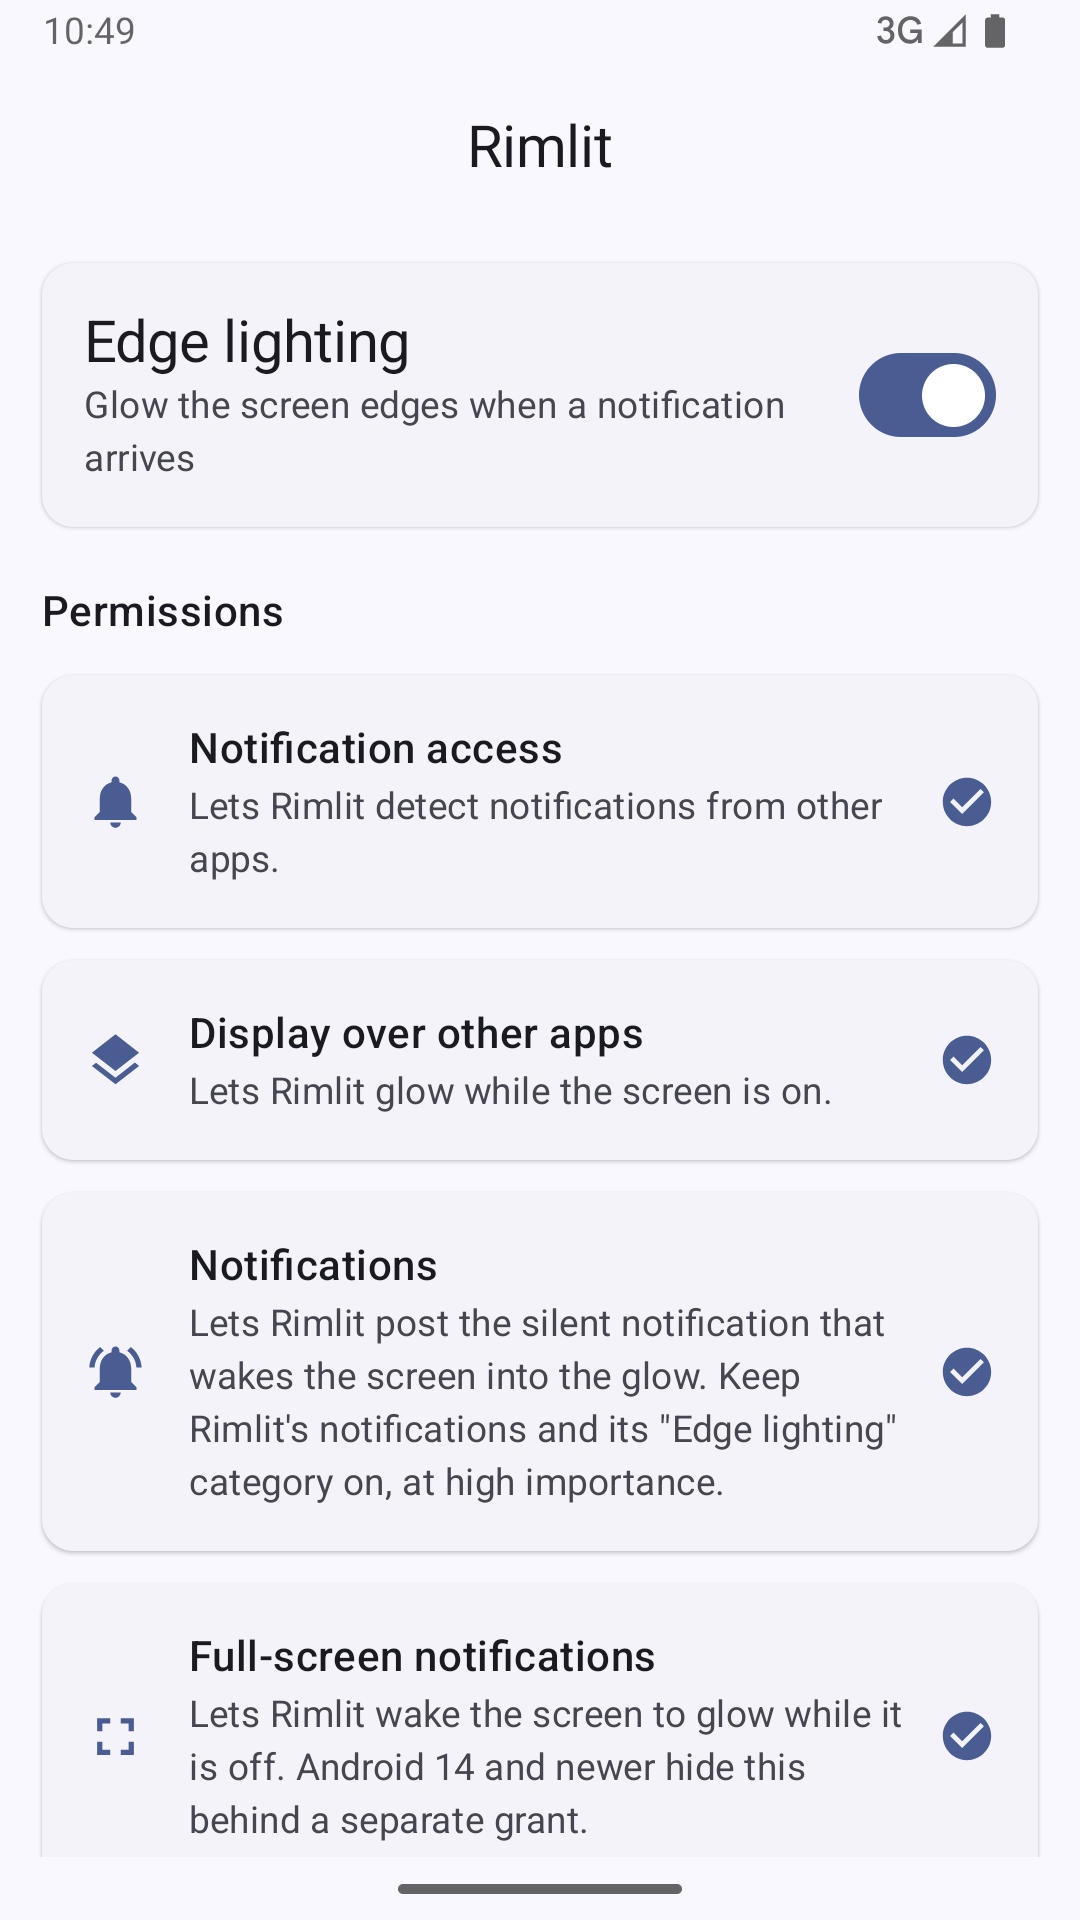
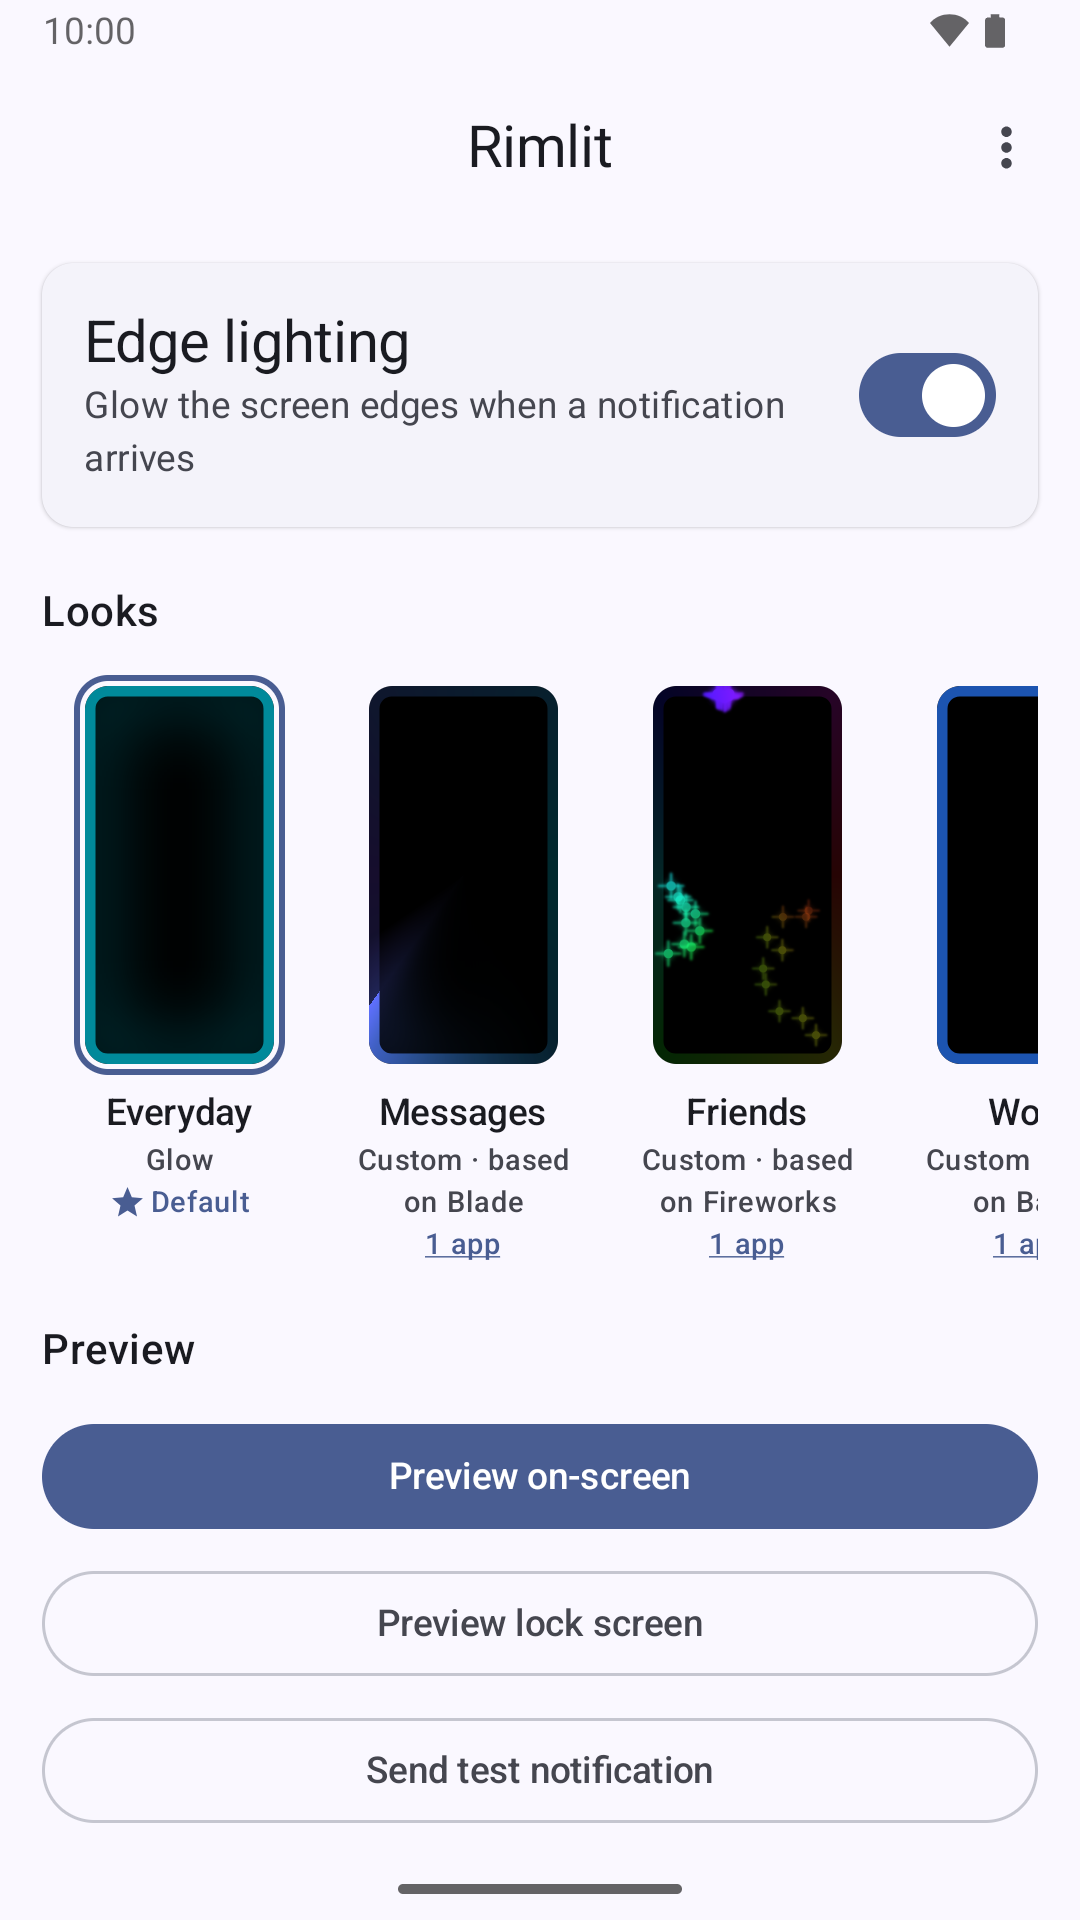
Docs for 0.3.0: the new design, per-app looks, new screenshots
The README and store listing describe the redesign: the full-screen look
editor, looks on Home, the Apps screen and a look's Apps tab for per-app
looks, screen sides, colour codes and glows down to 0.3 s. The
screenshots are retaken on the emulator. Bump to 0.3.0 with its
changelog.

diff --git a/README.md b/README.md
@@ -2,31 +2,54 @@
 
 Rimlit lights up the edges of your screen when a notification arrives — Samsung-style edge lighting for any Android phone. It is free, open source, has no ads, and never touches the network.
 
-| Home | Style | On screen | Screen off |
-|---|---|---|---|
-| ![Home screen](fastlane/metadata/android/en-US/images/phoneScreenshots/1_home.png) | ![Style screen with live preview](fastlane/metadata/android/en-US/images/phoneScreenshots/2_style.png) | ![Glow over the launcher](fastlane/metadata/android/en-US/images/phoneScreenshots/3_overlay.png) | ![Always-on-display style glow](fastlane/metadata/android/en-US/images/phoneScreenshots/4_lock-screen.png) |
+| Home | Look editor | Apps |
+|---|---|---|
+| ![Home: your looks](fastlane/metadata/android/en-US/images/phoneScreenshots/1_home.png) | ![The look editor, glowing round the screen's real edge](fastlane/metadata/android/en-US/images/phoneScreenshots/2_editor.png) | ![The Apps screen: which look each app uses](fastlane/metadata/android/en-US/images/phoneScreenshots/3_apps.png) |
+
+| An app's look | On screen | Screen off |
+|---|---|---|
+| ![An app's look sheet](fastlane/metadata/android/en-US/images/phoneScreenshots/4_app-look.png) | ![Glow and app pill over the launcher](fastlane/metadata/android/en-US/images/phoneScreenshots/5_overlay.png) | ![The always-on-display style glow with the screen off](fastlane/metadata/android/en-US/images/phoneScreenshots/6_lock-screen.png) |
 
 ## Features
 
 - **Works everywhere:** while you use the phone the glow is drawn over whatever is on screen; when the screen is off it wakes into a black, always-on-display style glow. With the recommended accessibility glow it also frames the lock screen itself.
 - **Ten styles:** a crisp breathing edge, a soft bloom with a bright core, a blade of light racing around the screen, a wave rippling along it, glitter twinkling in your colors, rings echoing off it, two blades chasing each other round it, two blades rising up both sides to meet at the top, a blade sweeping round it and back like a boomerang, or fireworks bursting along it.
 - **Particles:** snow, petals, rain, hearts, bubbles, confetti, stars or sparks across the screen while it glows, in the glow's colors or their own, with their size, speed, amount and spin to tune. Or use up to five of your own pictures, or the icon of the app that notified. Show them with any style, or on their own with no edge at all.
-- **Your colors:** one to three colors picked automatically from the notifying app's icon (or from the notification's picture, such as the sender's photo), a single custom color, a gradient of up to five colors, or a flowing rainbow.
-- **Tune it:** thickness, glow width, speed, brightness (with its own setting for the screen-off glow if you like) and duration, with a live preview that updates as you drag.
+- **Your colors:** one to three colors picked automatically from the notifying app's icon (or from the notification's picture, such as the sender's photo), a single custom color (drag its Hue slider, or tap the color code beside it and type one, such as `#00BCD4`, with or without the `#`), a gradient of up to five colors, or a flowing rainbow.
+- **Tune it:** thickness, glow width, speed, brightness (with its own setting for the screen-off glow if you like) and duration, down to a quick 0.3 s flash (in 0.1 s steps below one second), with a live preview that updates as you drag.
 - **Looks:** start from a premade, one for each style, and save up to twenty named looks, each with its own style, colors, glow area, tuning and particles. A look is edited full screen, glowing round your screen's real edge over your wallpaper; whatever you change from its premade is marked, and can be reset one part at a time. Make any look the default for every app, or give an app a look of its own, from the look's Apps tab or from the app's side. Duration, corners, the camera cutout's shape, screen-off brightness and battery saver are shared by every look.
 - **Share looks:** export all your looks, or the ones you pick, with their pictures, to a `.rimlit` file, or send it straight to someone through the share sheet. Importing one adds its looks to yours (a name you already use gets a number), and if they don't all fit you pick which to keep; your own looks and app choices are never replaced. Only looks are shared: no app list, quiet hours or device settings.
 - **Easy on you and the battery:** with Remove animations turned on, the glow holds still instead of pulsing or racing; with battery saver (the system's, or always) it draws at most 30 frames a second.
-- **Fits your screen:** follows your display's real rounded corners, and can ring the camera cutout instead of the whole edge, or as well as it.
+- **Fits your screen:** follows your display's real rounded corners, and can ring the camera cutout instead of the whole edge, or as well as it. Under **Screen sides** in a look's Base tab (with **Tinker** on), choose which of the top, bottom, left and right sides glow; a lit side fades out smoothly into the corner of a side that is off, and particles still cover the whole screen.
 - **When it glows:** choose separately whether it glows with the screen off, above the lock screen, and while you use the phone, and set daily quiet hours (for every glow, or only the one that wakes the screen). Turning edge lighting off, or switching an app off, also ends a glow that is showing.
 - **Double tap to open:** double tap the screen-off glow to unlock and open the notification, just as tapping it in the shade would; a single tap still dismisses the glow. It can be turned off.
 - **App pill:** while you use the phone, the glow comes with a small pill showing the app's icon and name (never the message), grown out of the camera like an island. Double tap it to open the notification (above the lock screen, after you unlock), or swipe it up or sideways to dismiss the glow, and optionally the notification too. Above a locked screen, a notification you hide from the lock screen glows without its pill and can't be cleared, so nothing there says which app it came from. The pill can be turned off.
 - **Respectful:** honors Do Not Disturb, skips silent and low-priority notifications, and never covers incoming-call or alarm screens. Every app glows except those you switch off, or, if you prefer, only the apps you choose.
 
+## Different looks for different apps
+
+Every app glows with your default look unless you give it one of its own. There are two ways to do that, and they change the same thing.
+
+**From the Apps screen** (Home, then **Settings**, then **Apps**):
+
+1. Find the app, using the **Search apps** box or the **All** and **Own look** chips (the third chip, **Off**, shows the apps you switched off).
+2. Tap the app. Its sheet shows every look as a tile under **Glows with**; tap one to use it. An app with no look of its own shows **Default** and the name of the default look.
+3. For a look made just for the app, tap **New look for** the app and pick a premade to start from; the editor opens, and saving it gives the app that look. To change the look it already uses, tap **Edit** with the look's name (it says when other apps share the look, since editing it changes them too).
+4. Use the switch on each row to turn an app off. With **Only apps I choose** on, only the apps switched on glow and every other app stays dark (the chip then reads **On**).
+
+**From a look's own Apps tab** (tap a look on Home to open it in the editor, then the **Apps** tab):
+
+1. Tick the apps that should use this look. The **Search apps** box finds one by name.
+2. Turn on **Default for all apps** to make this the look every app without one of its own glows with. The current default look's switch is fixed; to change the default, make another look the default.
+3. An app that already has another look of its own shows **Uses** and that look's name instead of a tick; change it from the Apps screen.
+
+Nothing in the editor is saved until you tap **Save**. On Home, each look's tile shows how many apps use it (or **Not used**); tap the count to see their names. Deleting a look sends its apps back to the default look.
+
 ## Install
 
 Rimlit needs Android 10 or newer. Download the latest APK from [Releases](https://github.com/adityam23/rimlit/releases) and open it on your phone (you may need to allow installs from your browser or file manager).
 
-Open Rimlit and follow its setup, which walks you through the permissions below one step at a time, then checks the glow fits your screen, lets you pick a first look and try it, and turns **Edge lighting** on when you finish. Only notification access is required; anything you skip is listed on the home screen under **Needs attention**, and setup can be run again from Behavior.
+Open Rimlit and follow its setup, which walks you through the permissions below one step at a time, then checks the glow fits your screen (**Fit your screen**), lets you place the app pill (**The app pill**), pick a first look and try it, and turns **Edge lighting** on when you finish. Only notification access is required; anything you skip is listed on the home screen under **Needs attention**, and setup can be run again from Behavior (**Run setup again**), which adds your pick as a new default look and keeps the old one. The home screen also has a **Preview** section: **Preview on-screen**, **Preview lock screen** and **Send test notification**.
 
 - **Notification access** — to notice when notifications arrive. Rimlit only looks at which app posted it and its colors; nothing is stored or sent anywhere. On Android 13 and newer you may first need to tap **Allow restricted settings** in Rimlit's App info menu.
 - **Display over other apps** — to draw the glow while you use the phone.
